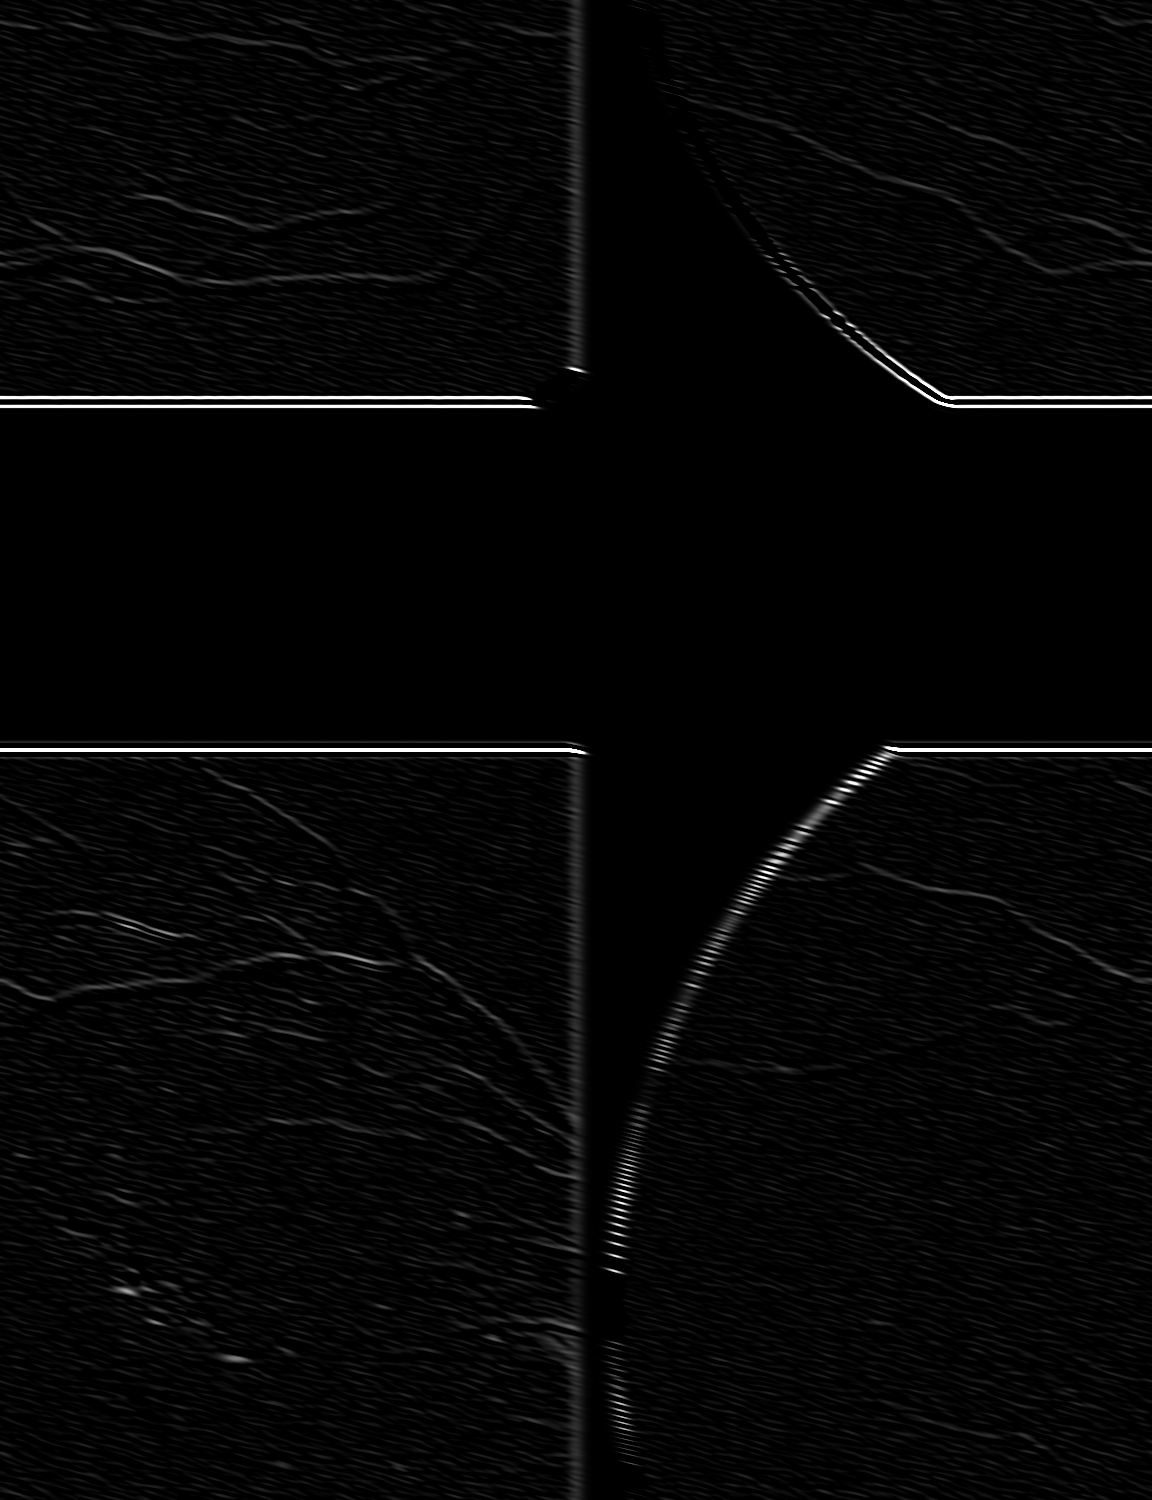
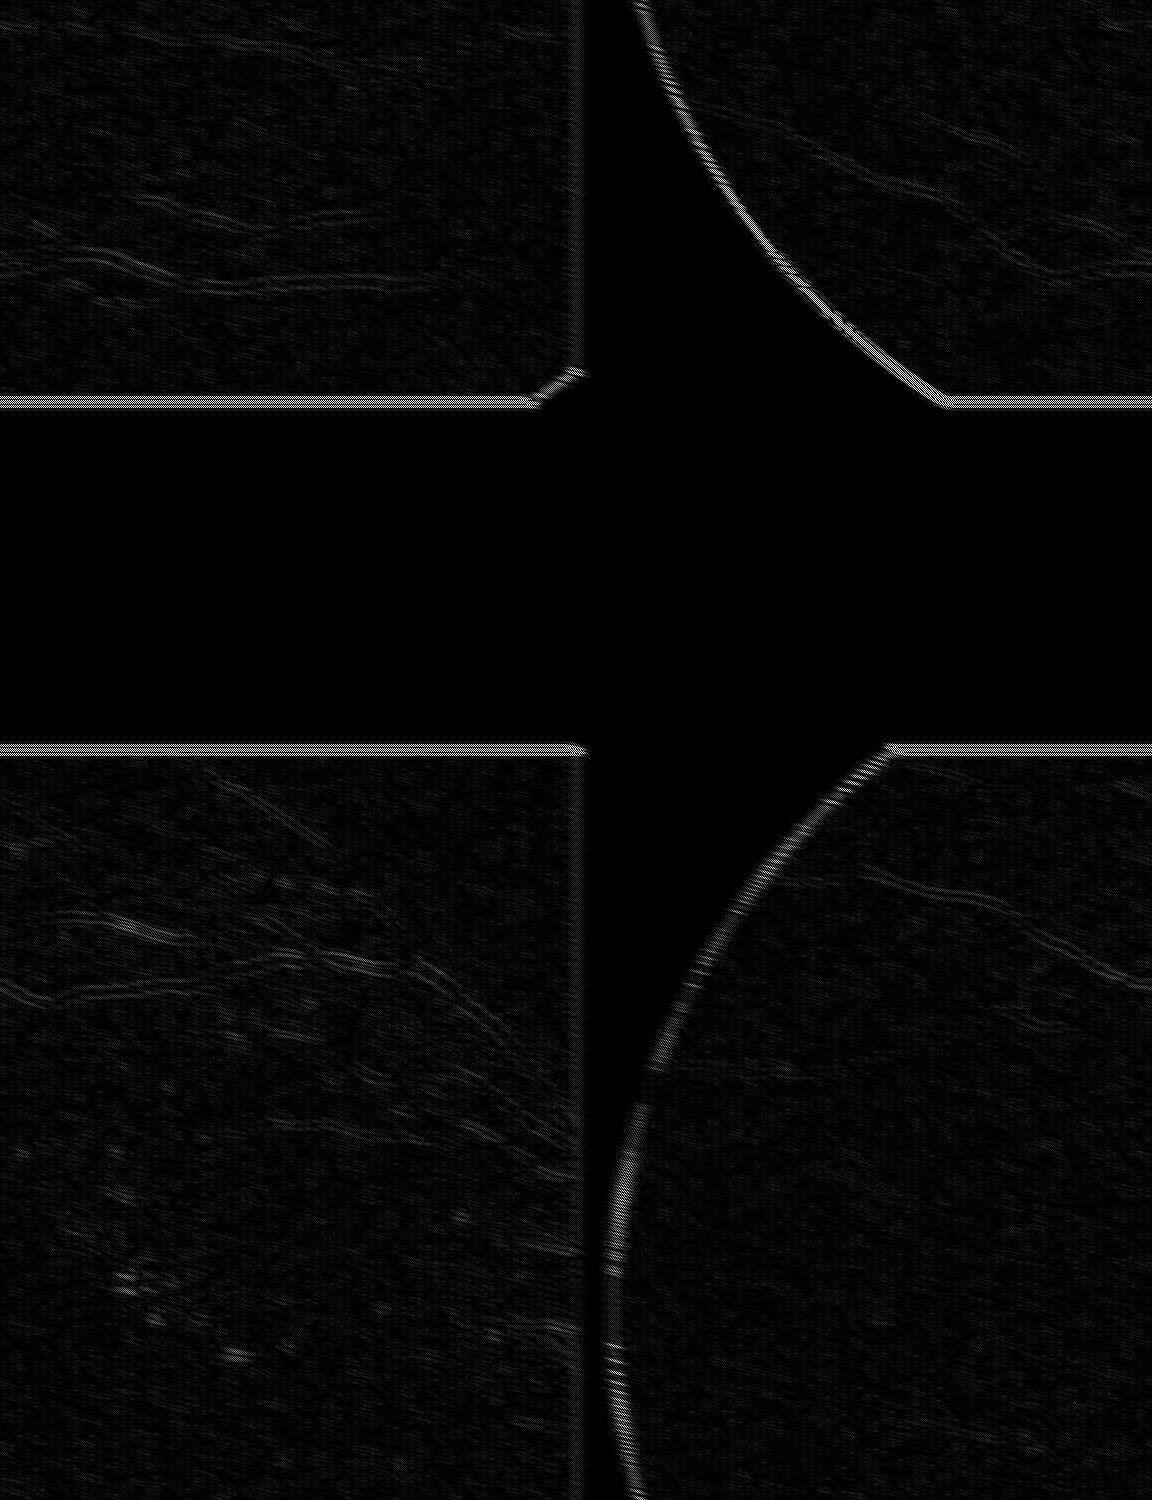
actualizacion

diff --git a/TestFolder/transformadaMorlet.py b/TestFolder/transformadaMorlet.py
@@ -27,7 +27,6 @@ class CVGaborProcessedImage(object):
         #     theta = 15 degrees, scale = 3.0, epsilon = 4.0, k0 = 3.0
         wavelet = self.morlet(waveletSize, waveletSize, self.theta,
             self.scale, self.epsilon, 0.0, self.k0y)
-
         # Generate the corresponding wavelet image in the frequency domain
         (wavelet_width, wavelet_height) = wavelet.shape
         dft_A = np.zeros((dft_M, dft_N), dtype='complex')
@@ -38,10 +37,22 @@ class CVGaborProcessedImage(object):
             wavelet[0:wavelet_height, 0:wavelet_width]
         dft_A = np.fft.fft2(dft_A) #, [(wavelet_height + dft_M) / 2, (wavelet_width + dft_N) / 2])
         dft_A_shift = np.fft.fftshift(dft_A)
+        #v2.imshow("dft_A",dft_A.real)
+        cv2.imwrite("dft_B.png",dft_B.real)
+        cv2.imwrite("dft_B_imaginaria.png",dft_B.imag)
+
+        #cv2.waitKey(0)
+        #cv2.imshow("dft_A_shift",dft_A_shift.real)
+        cv2.imwrite("dft_B_shift.png",dft_B_shift.real)
+        cv2.imwrite("dft_B_shift_imaginaria.png",dft_B_shift.imag)
+        #cv2.waitKey(0)
+
 
         # Multiply the source image and the wavelet image in the frequency domain
         current = np.zeros((dft_M, dft_N), dtype='complex')
         current = dft_B * np.conjugate(dft_A)
+        #cv2.imwrite("dft_A.png",dft_A.real)
+
         # cv2.mulSpectrums(np.array(np.dstack([dft_B.real,dft_B.imag])),
         #                  np.array(np.dstack([dft_A.real, dft_A.imag])), 0,
         #                  np.array(np.dstack([current.real, current.imag])), conjB=True)
@@ -74,7 +85,7 @@ class CVGaborProcessedImage(object):
                 if modulus > 1e-7:
                     break
 
-            if j == width:
+            if j == width-1:
                 countRows += 1
 
             if modulus > 1e-7:
@@ -91,7 +102,7 @@ class CVGaborProcessedImage(object):
                 if modulus > 1e-7:
                     break
 
-            if i == height: 
+            if i == height-1:
                 countCols += 1
 
             if modulus > 1e-7:

diff --git a/TestFolder/prova.py b/TestFolder/prova.py
@@ -1,0 +1,37 @@
+import cv2
+import numpy as np
+from transformadaMorlet import CVGaborProcessedImage
+
+
+def ApplyMask(image, mask):
+    mask = mask[:, :, 1]    # Load mask
+    image = image[:, :, 1]  # Take green layer
+    img2 = image.copy()
+    img2 = 255 - img2
+    img = cv2.bitwise_and(img2, img2, mask = mask) # Maskingaxxxxxxx
+    return img
+
+img = cv2.imread('imagen1.png')
+mask = cv2.imread('mask.png')   # Load mask
+out = ApplyMask(img, mask)
+cv2.imwrite("enmascaradaEinvertida.png", out)
+
+scale = 3.0;
+epsilon = 4.0;
+theta = np.pi / 12 # 15 degrees
+k0y = 3.0;
+
+cvgpi = CVGaborProcessedImage(scale, epsilon, theta, k0y)
+wavelet = cvgpi.generate(out)
+cv2.imshow("Morlet wavelet - Real part", wavelet.real)
+cv2.imwrite("Morlet wavelet - Real part.png", wavelet.real)
+cv2.waitKey(0)
+cv2.imshow("Morlet wavelet - Imaginary part", wavelet.imag)
+cv2.imwrite("Morlet wavelet - Imaginary part.png", wavelet.imag)
+cv2.waitKey(0)
+
+#mi_min = np.min(mi)
+#mi_max = np.max(mi)
+#mi = 255 * (mi - mi_min) / (mi_max - mi_min)
+#mi = mi - np.min(mi)
+#mi = mi / np.max(mi)
